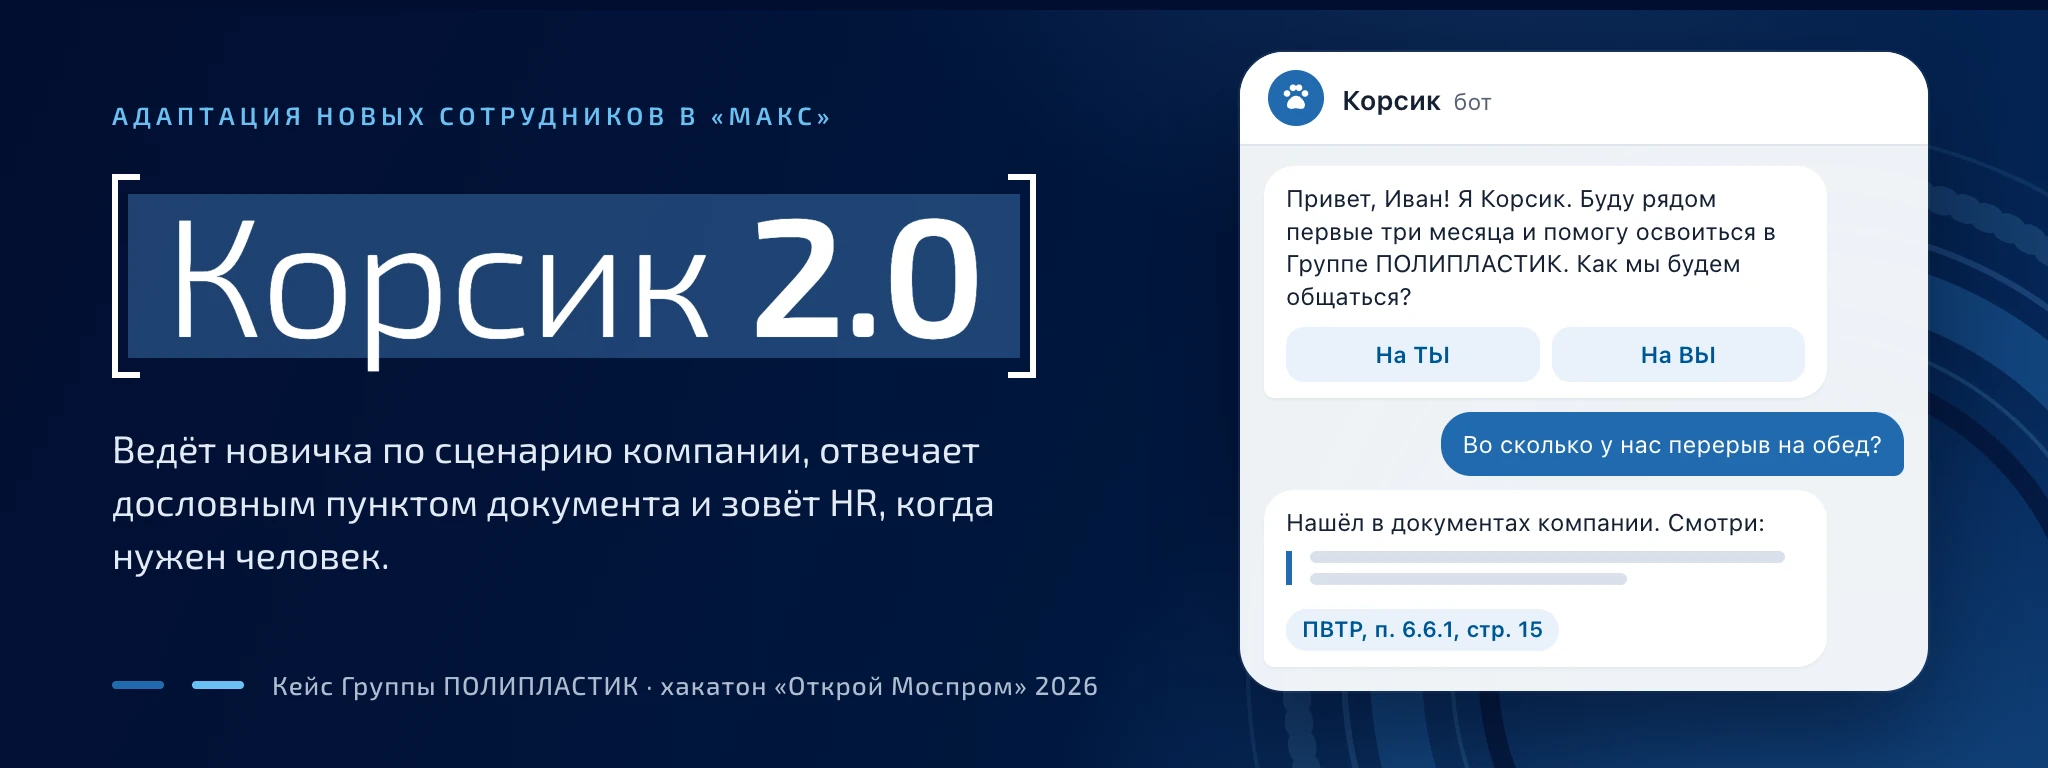
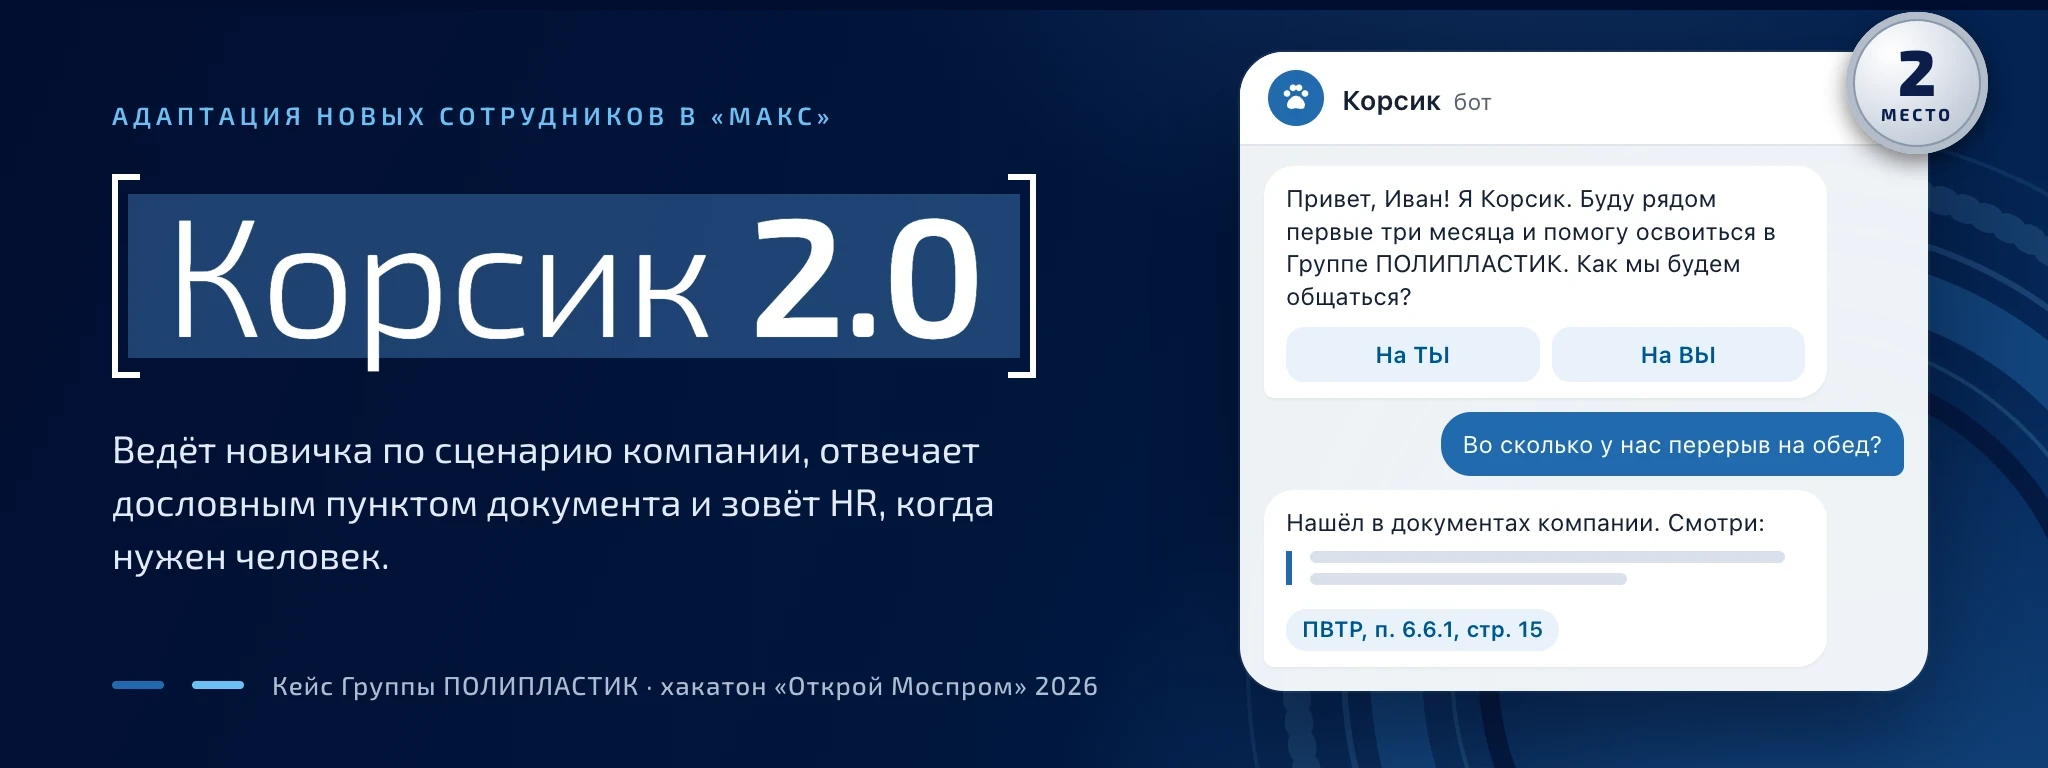
README: второе место на хакатоне «Открой Моспром» 2026

Changed region(s): [[0.875, 0.0, 0.9688, 0.2188]]

diff --git a/README.md b/README.md
@@ -1,8 +1,8 @@
 # Корсик 2.0
 
-[![Корсик 2.0: ИИ-ассистент адаптации новых сотрудников в «МАКС». Открыть сайт проекта](media/hero.webp)](https://mosprom-polyplast.rapira-cloud.ru)
+[![Корсик 2.0: ИИ-ассистент адаптации новых сотрудников в «МАКС», второе место на хакатоне «Открой Моспром» 2026. Открыть сайт проекта](media/hero.webp)](https://mosprom-polyplast.rapira-cloud.ru)
 
-ИИ-ассистент адаптации новых сотрудников в мессенджере «МАКС» и панель для HR и руководителей там же. Решение кейса ООО «Группа ПОЛИПЛАСТИК», хакатон «Открой Моспром», 2026.
+ИИ-ассистент адаптации новых сотрудников в мессенджере «МАКС» и панель для HR и руководителей там же. Решение кейса ООО «Группа ПОЛИПЛАСТИК», **второе место** на хакатоне «Открой Моспром» 2026.
 
 **Сайт проекта: [mosprom-polyplast.rapira-cloud.ru](https://mosprom-polyplast.rapira-cloud.ru)**, там основная презентация, демо-видео и исследование.
 
@@ -409,4 +409,4 @@ flowchart TB
 - **«Путь новичка» на пилоте сравниваем на двух группах:** половина новичков с картой вех, половина без. Строгих данных именно по рабочим на производстве в исследованиях нет, поэтому эффект проверим на пилоте.
 - **Что дальше:** пилот на одном заводе, затем остальные площадки Группы. В очереди: «ваш голос услышан» (что поменяли по итогам опросов), веха «половина пути» на 45-й день, Корсик как персонаж-проводник в стиле компании.
 
-Команда «Рапира Клауд», хакатон «Открой Моспром», 2026.
+Команда «Рапира Клауд», второе место на хакатоне «Открой Моспром» 2026.
